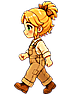
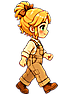
fix(player): side art faces right; scale the cast up 1.5x
- The side walk frames were stored facing left, so the engine's setFlipX(left)
  showed them reversed. Flip the three side frames to face right (the engine
  flips for left), and make tools/process_player.py's mirror opt-in
  (SIDE_FACES_LEFT, default off) since the supplied strip already faced right.
- Add CHAR_SCALE (1.5) in scale.ts and apply it to the player and NPC sprites in
  WorldScene so the cast reads bigger than its tile footprint. Render-only;
  collisions and distances are unchanged.

typecheck, vite build, and all 273 tests pass.

diff --git a/src/game/scenes/WorldScene.ts b/src/game/scenes/WorldScene.ts
@@ -11,7 +11,7 @@ import { ENEMIES } from '../data/enemies';
 import { CROP_ORDER, CROPS } from '../data/crops';
 import { ITEMS } from '../data/items';
 import { MAPS, TILE, tileCenter, type ExitDef, type MapDef } from '../data/maps';
-import { px } from '../data/scale';
+import { px, CHAR_SCALE } from '../data/scale';
 import { NPCS } from '../data/npcs';
 import { CombatController } from '../combat/CombatController';
 import { GameStateStore } from '../state/GameStateStore';
@@ -143,7 +143,10 @@ export class WorldScene extends Phaser.Scene {
     }
 
     const p = this.store.player;
-    this.playerSprite = this.add.sprite(p.x, p.y, TextureKey.Player).setOrigin(0.5, 0.9);
+    this.playerSprite = this.add
+      .sprite(p.x, p.y, TextureKey.Player)
+      .setOrigin(0.5, 0.9)
+      .setScale(CHAR_SCALE);
     this.playerSprite.play(PlayerAnim.IdleDown);
 
     this.controls = new InputSystem(this);
@@ -286,7 +289,11 @@ export class WorldScene extends Phaser.Scene {
     }
     for (const npc of def.npcs) {
       const c = tileCenter(npc.tile);
-      this.add.image(c.x, c.y, NPCS[npc.npcId].textureKey).setOrigin(0.5, 0.9).setDepth(c.y);
+      this.add
+        .image(c.x, c.y, NPCS[npc.npcId].textureKey)
+        .setOrigin(0.5, 0.9)
+        .setScale(CHAR_SCALE)
+        .setDepth(c.y);
     }
     for (const cache of def.caches) {
       const c = tileCenter(cache.tile);

diff --git a/src/game/data/scale.ts b/src/game/data/scale.ts
@@ -8,6 +8,11 @@ export const BASE_TILE = 32; // authoring grid: one logical tile, as the pixel a
 export const SCALE = 3; // render multiplier (TILE 32 -> 96, player 24x32 -> 72x96, etc.)
 export const TILE = BASE_TILE * SCALE; // actual world tile size in pixels
 
+// Extra on-screen size for the cast (player + NPCs) so they read bigger than their tile
+// footprint — a common cozy-RPG look. Applied as a render scale; collisions/distances are
+// unaffected. 1 = same as tile footprint.
+export const CHAR_SCALE = 1.5;
+
 /** Scale a base pixel measurement (UI offsets, panel sizes) to render size. */
 export const px = (n: number): number => n * SCALE;
 /** Scale a base font size to a render-size CSS string, e.g. fs(12) -> "36px". */

diff --git a/tools/process_player.py b/tools/process_player.py
@@ -76,13 +76,16 @@ def gif(path, placed, bg):
     flat[0].save(path, save_all=True, append_images=flat[1:], duration=125, loop=0, disposal=2)
 
 
+# The engine stores side art facing RIGHT and flips it for left (setFlipX). Set this True only
+# if your supplied side strip faces LEFT, so it gets mirrored to face right.
+SIDE_FACES_LEFT = False
+
+
 def main():
     args = dict(zip(["front", "back", "side"], sys.argv[1:4]))
     for direction, path in args.items():
         frames = cut(path)
-        # The engine stores side art facing RIGHT and flips it for left (setFlipX). The supplied
-        # side strip faces left, so mirror it here.
-        if direction == "side":
+        if direction == "side" and SIDE_FACES_LEFT:
             frames = [f.transpose(Image.FLIP_LEFT_RIGHT) for f in frames]
         placed = place(frames)
         for key, frame in zip(STRIPS[direction], placed):